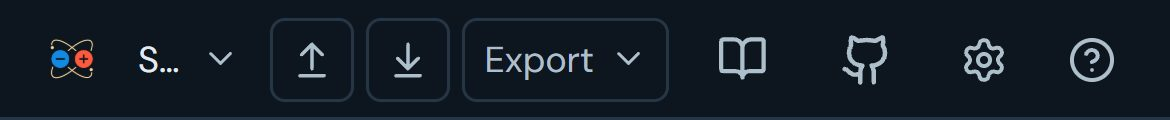
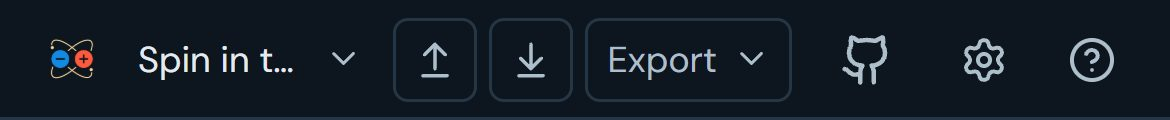
Book 05: no book link in the phone header, so the scenario name keeps its room
At 390 px the extra icon cut the scenario name to one letter. Phones reach
the companion from Help › Sources. Screens recaptured.

diff --git a/docs/ui-previews/26e-book-link/index.html b/docs/ui-previews/26e-book-link/index.html
@@ -1,10 +1,10 @@
 <!doctype html><html lang="en"><head><meta charset="utf-8"><meta name="viewport" content="width=device-width,initial-scale=1"><title>ZeroPoint · Book companion link: before and after</title>
 <style>body{margin:0;background:#0c131b;color:#e3ebf1;font:14px/1.55 'DM Sans',system-ui,'Segoe UI',sans-serif}main{max-width:1400px;margin:auto;padding:36px 28px 70px}h1{font-size:30px;letter-spacing:-.8px;margin:0 0 8px}h2{font-size:16px;margin:26px 0 8px}p{color:#aebfcc;max-width:900px}.pair{display:grid;grid-template-columns:1fr 1fr;gap:12px}figure{margin:0}img{width:100%;display:block;border:1px solid #34495b;border-radius:8px}figcaption{font:600 11px ui-monospace,Consolas,monospace;letter-spacing:1px;text-transform:uppercase;color:#8397a8;margin-top:6px}.missing{display:grid;place-items:center;min-height:180px;height:100%;padding:24px;text-align:center;border:1px dashed #34495b;border-radius:8px;color:#aebfcc}</style></head>
-<body><main><h1>Book companion link: before and after</h1><p>The laboratory links to the interactive companion to The Zero-Point Universe: a “Read the book” link in the header beside the repository link, and a closing line in every lab’s Help › Sources.</p><p>Real screens: "before" runs the worktree given as <code>--before</code> (usually the layer below), and "after" runs this one. Click an image to open it at full size. Regenerate with <code>node scripts/compare-screens.mjs --before ../26d-book-ch16-27 --out docs/ui-previews/26e-book-link --set book-link --title 'Book companion link' --description 'The laboratory links to the interactive companion to The Zero-Point Universe: a “Read the book” link in the header beside the repository link, and a closing line in every lab’s Help › Sources.'</code>.</p>
+<body><main><h1>Book companion link: before and after</h1><p>The laboratory links to the interactive companion to The Zero-Point Universe: a “Read the book” link in the header beside the repository link (not on phones, where it would squeeze the scenario name), and a closing line in every lab’s Help › Sources.</p><p>Real screens: "before" runs the worktree given as <code>--before</code> (usually the layer below), and "after" runs this one. Click an image to open it at full size. Regenerate with <code>node scripts/compare-screens.mjs --before ../26d-book-ch16-27 --out docs/ui-previews/26e-book-link --set book-link --title 'Book companion link' --description 'The laboratory links to the interactive companion to The Zero-Point Universe: a “Read the book” link in the header beside the repository link (not on phones, where it would squeeze the scenario name), and a closing line in every lab’s Help › Sources.'</code>.</p>
 <h2>Header · 1440 px: “Read the book” beside the repository link</h2><div class="pair"><figure><a href="header-desktop-before.jpg"><img src="header-desktop-before.jpg" alt="Header · 1440 px: “Read the book” beside the repository link, before" loading="lazy"></a><figcaption>Before</figcaption></figure><figure><a href="header-desktop-after.jpg"><img src="header-desktop-after.jpg" alt="Header · 1440 px: “Read the book” beside the repository link, after" loading="lazy"></a><figcaption>After</figcaption></figure></div>
 <h2>Header · 1366 px</h2><div class="pair"><figure><a href="header-laptop-before.jpg"><img src="header-laptop-before.jpg" alt="Header · 1366 px, before" loading="lazy"></a><figcaption>Before</figcaption></figure><figure><a href="header-laptop-after.jpg"><img src="header-laptop-after.jpg" alt="Header · 1366 px, after" loading="lazy"></a><figcaption>After</figcaption></figure></div>
 <h2>Header · 1024 px</h2><div class="pair"><figure><a href="header-tablet-before.jpg"><img src="header-tablet-before.jpg" alt="Header · 1024 px, before" loading="lazy"></a><figcaption>Before</figcaption></figure><figure><a href="header-tablet-after.jpg"><img src="header-tablet-after.jpg" alt="Header · 1024 px, after" loading="lazy"></a><figcaption>After</figcaption></figure></div>
-<h2>Header · 390 px: icons only</h2><div class="pair"><figure><a href="header-phone-before.jpg"><img src="header-phone-before.jpg" alt="Header · 390 px: icons only, before" loading="lazy" style="max-width:390px"></a><figcaption>Before</figcaption></figure><figure><a href="header-phone-after.jpg"><img src="header-phone-after.jpg" alt="Header · 390 px: icons only, after" loading="lazy" style="max-width:390px"></a><figcaption>After</figcaption></figure></div>
+<h2>Header · 390 px: unchanged, so the scenario name keeps its room (the companion is in Help › Sources)</h2><div class="pair"><figure><a href="header-phone-before.jpg"><img src="header-phone-before.jpg" alt="Header · 390 px: unchanged, so the scenario name keeps its room (the companion is in Help › Sources), before" loading="lazy" style="max-width:390px"></a><figcaption>Before</figcaption></figure><figure><a href="header-phone-after.jpg"><img src="header-phone-after.jpg" alt="Header · 390 px: unchanged, so the scenario name keeps its room (the companion is in Help › Sources), after" loading="lazy" style="max-width:390px"></a><figcaption>After</figcaption></figure></div>
 <h2>Extended Casimir · Help › Sources ends with the book companion</h2><div class="pair"><figure><a href="casimir-sources-before.jpg"><img src="casimir-sources-before.jpg" alt="Extended Casimir · Help › Sources ends with the book companion, before" loading="lazy"></a><figcaption>Before</figcaption></figure><figure><a href="casimir-sources-after.jpg"><img src="casimir-sources-after.jpg" alt="Extended Casimir · Help › Sources ends with the book companion, after" loading="lazy"></a><figcaption>After</figcaption></figure></div>
 <h2>Light · Help › Sources ends with the book companion</h2><div class="pair"><figure><a href="light-sources-before.jpg"><img src="light-sources-before.jpg" alt="Light · Help › Sources ends with the book companion, before" loading="lazy"></a><figcaption>Before</figcaption></figure><figure><a href="light-sources-after.jpg"><img src="light-sources-after.jpg" alt="Light · Help › Sources ends with the book companion, after" loading="lazy"></a><figcaption>After</figcaption></figure></div>
 </main></body></html>

diff --git a/src/workbench/chrome.css b/src/workbench/chrome.css
@@ -202,6 +202,13 @@ button.workbench-chip:focus-visible {
   outline-offset: 2px;
 }
 
+/* Phones keep the header's room for the scenario name; the book companion stays one tap away in Help › Sources. */
+@media (max-width: 600px) {
+  .workbench-header .book-link {
+    display: none;
+  }
+}
+
 .workbench-icon-button {
   display: grid;
   place-items: center;
